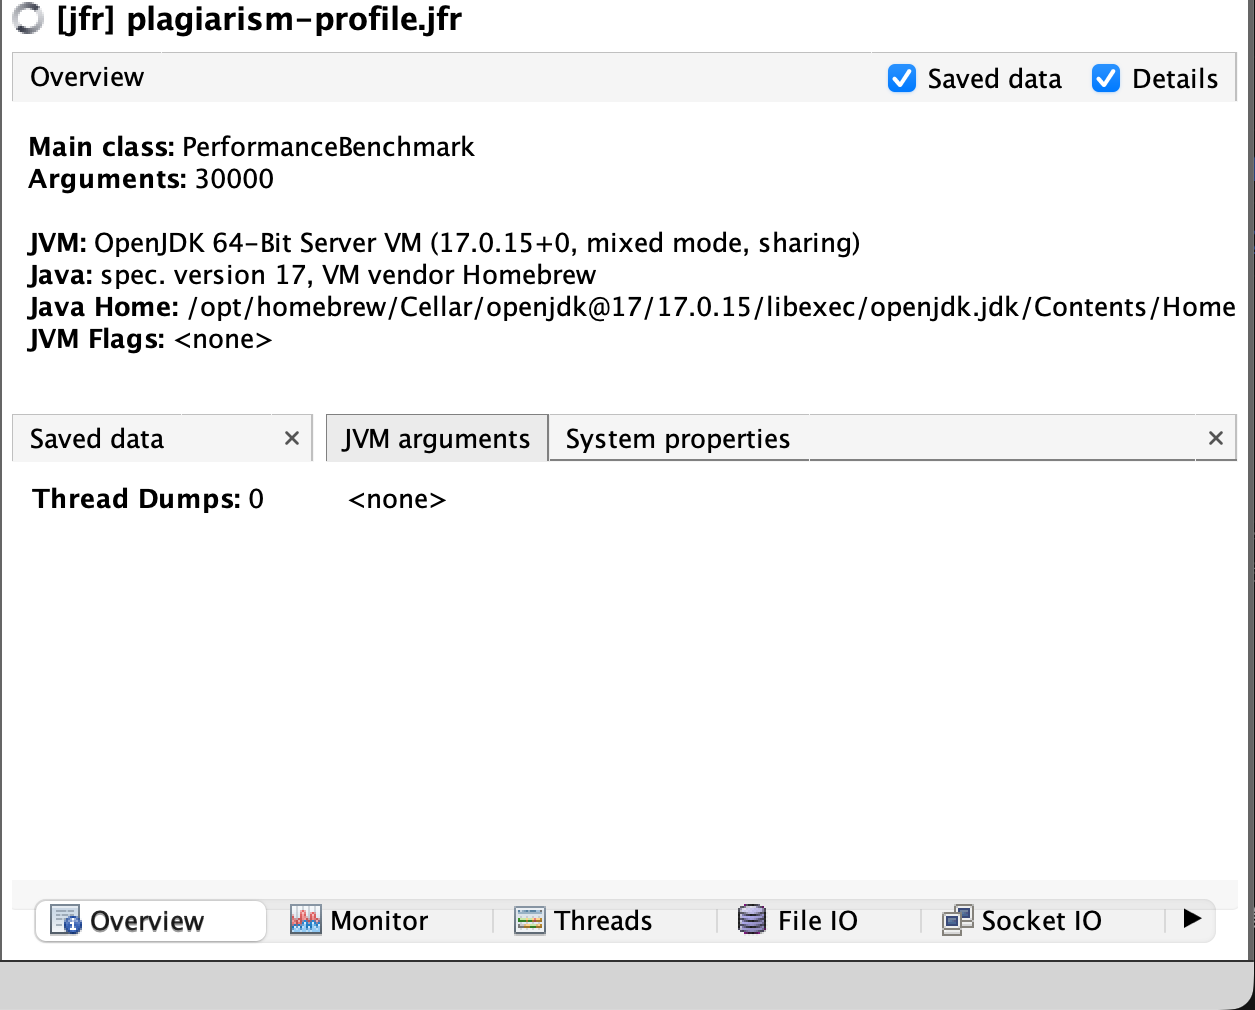
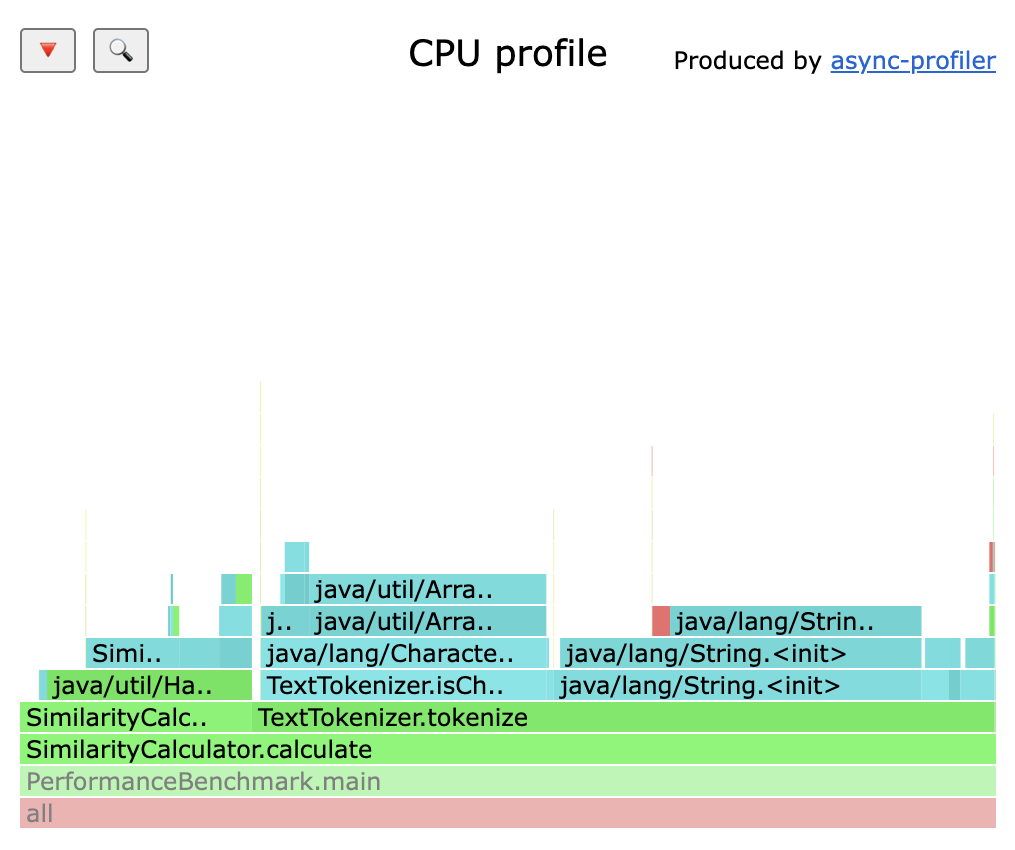
docs: add profiling and coverage reports

diff --git a/3124004108/performance/README.md b/3124004108/performance/README.md
@@ -1,8 +1,8 @@
 # 性能分析记录
 
-`PerformanceBenchmark.java` 会在内存中重复计算一组较长的中英文文本，用于观察查重计算的热点函数。它不是评测入口，不会被 `main.jar` 打包。
+`PerformanceBenchmark.java` 只用于性能采样，不会被打进提交的 `main.jar`。它在内存中重复计算两段较长的中英文文本，便于观察查重计算中的热点方法。
 
-运行示例：
+运行基准程序：
 
 ```bash
 cd 3124004108
@@ -13,22 +13,16 @@ javac -encoding UTF-8 -d build/performance-classes \
 java -cp build/classes:build/performance-classes PerformanceBenchmark 30
 ```
 
-最后一个参数是迭代次数，省略时默认为 30。使用 VisualVM 进行采样时可以临时使用较大的次数，让进程保持足够长的时间：
+最后一个参数是迭代次数。采样时使用了 IntelliJ IDEA 自带的 async-profiler，以 CPU 事件记录 `PerformanceBenchmark 3000` 的调用栈，实际运行结果为 `elapsed_ms=22270.44`。报告页面由 profiler 自动生成，再截取为下面的图片。
 
-```bash
-java -cp build/classes:build/performance-classes PerformanceBenchmark 3000
-```
+![async-profiler CPU 性能分析](performance-profile.png)
 
-## 本次记录
+在 profiler 页面放大业务方法后，`SimilarityCalculator.calculate` 显示为 `2,201 samples, 96.32%`，`SimilarityCalculator.frequency` 显示为 `523 samples, 22.89%`。从图中的业务方法调用链可以直接看到：
 
-本次使用 JDK Flight Recorder 记录了 `PerformanceBenchmark 30000` 的运行过程，再用 VisualVM 打开 `build/plagiarism-profile.jfr` 查看。截图中的运行环境为 OpenJDK 17，主类是 `PerformanceBenchmark`。
+- `SimilarityCalculator.calculate` 负责组织一次完整的相似度计算；
+- `TextTokenizer.tokenize` 是占用宽度较大的业务方法，主要开销来自逐字符扫描和 token 创建；
+- `SimilarityCalculator.frequency` 出现在词频统计调用路径中，使用哈希表统计 token 次数。
 
-从 JFR 的 `jdk.ExecutionSample` 样本看，采样主要落在以下调用路径：
+这也和代码的设计相符：文本先被扫描和分词，再统计词频，最后计算余弦相似度。当前实现已经让分词过程对字符只扫描一次，点积阶段只遍历一侧词频表并查询另一侧哈希表，避免了对全部 token 做双重遍历。
 
-- `TextTokenizer.tokenize`：遍历字符、识别中文字符和英文/数字 token；
-- `SimilarityCalculator.frequency`：使用 `HashMap` 统计 token 出现次数；
-- `SimilarityCalculator.calculate`：组织两段文本的 token 化和频率统计。
-
-![VisualVM JFR 性能分析](performance-profile.png)
-
-这张图是实际运行后从 VisualVM 窗口截取的记录，不是手工绘制的示意图。博客中可以直接引用这张图片，并结合上面的调用路径说明性能观察结果。
+这张图是真实运行 async-profiler 后生成的 CPU flame graph，方法名来自实际采样栈，不是手工绘制的数据图。博客中可结合图片说明热点方法和对应的优化思路。

diff --git a/3124004108/coverage/README.md b/3124004108/coverage/README.md
@@ -1,0 +1,17 @@
+# 单元测试覆盖率
+
+这张图来自 JaCoCo 0.8.13 生成的 HTML 覆盖率报告。先运行项目的 15 个单元测试，再由 JaCoCo 代理记录执行结果并生成报告，没有手工填写覆盖率数据。
+
+本次测试结果为 `15 passed, 0 failed`，覆盖率汇总如下：
+
+| 指标 | 结果 |
+| --- | ---: |
+| 指令覆盖率 | 92% |
+| 分支覆盖率 | 81% |
+| 行覆盖率 | 90/99，约 91% |
+| 方法覆盖率 | 18/19，约 95% |
+| 类覆盖率 | 5/5，100% |
+
+![JaCoCo 覆盖率报告](coverage-report.png)
+
+报告中可以继续点击 `FileService`、`Main`、`SimilarityCalculator` 和 `TextTokenizer`，查看具体源码行的覆盖情况。博客中使用这张图说明整体覆盖率，并结合测试用例列表说明测试范围。
